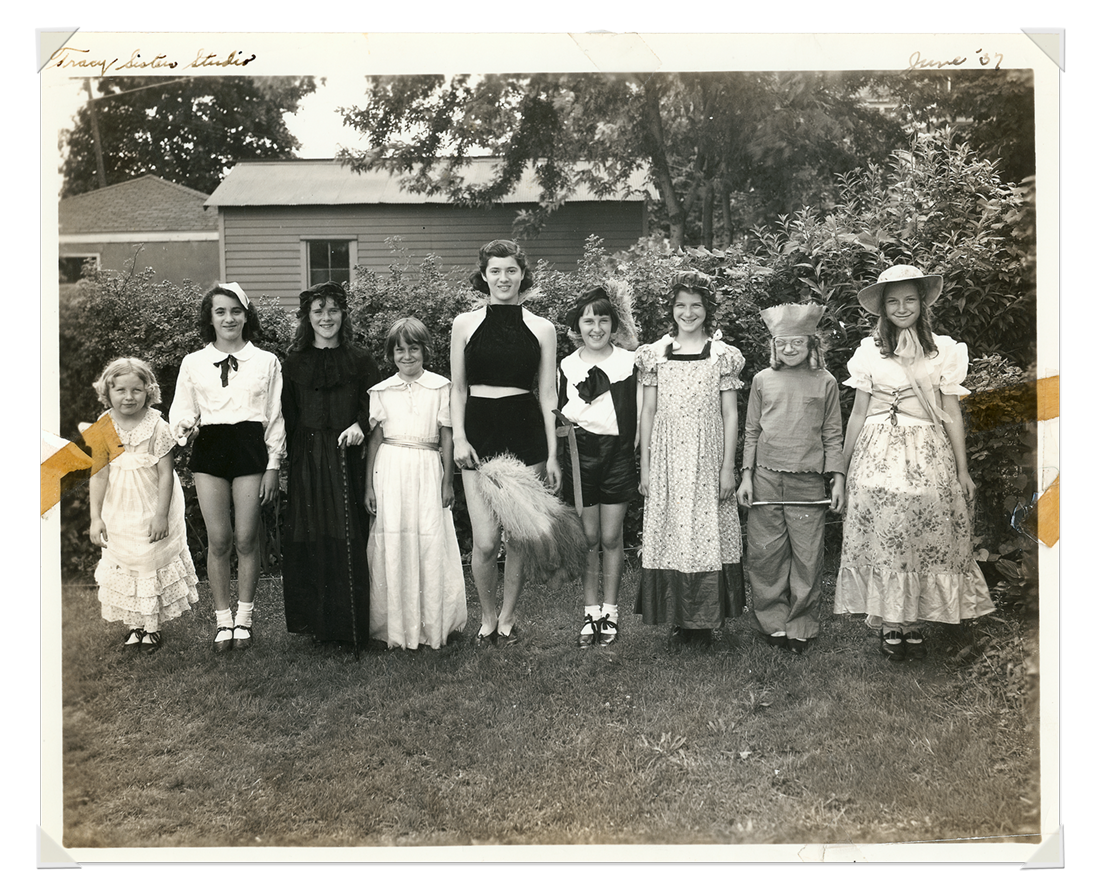
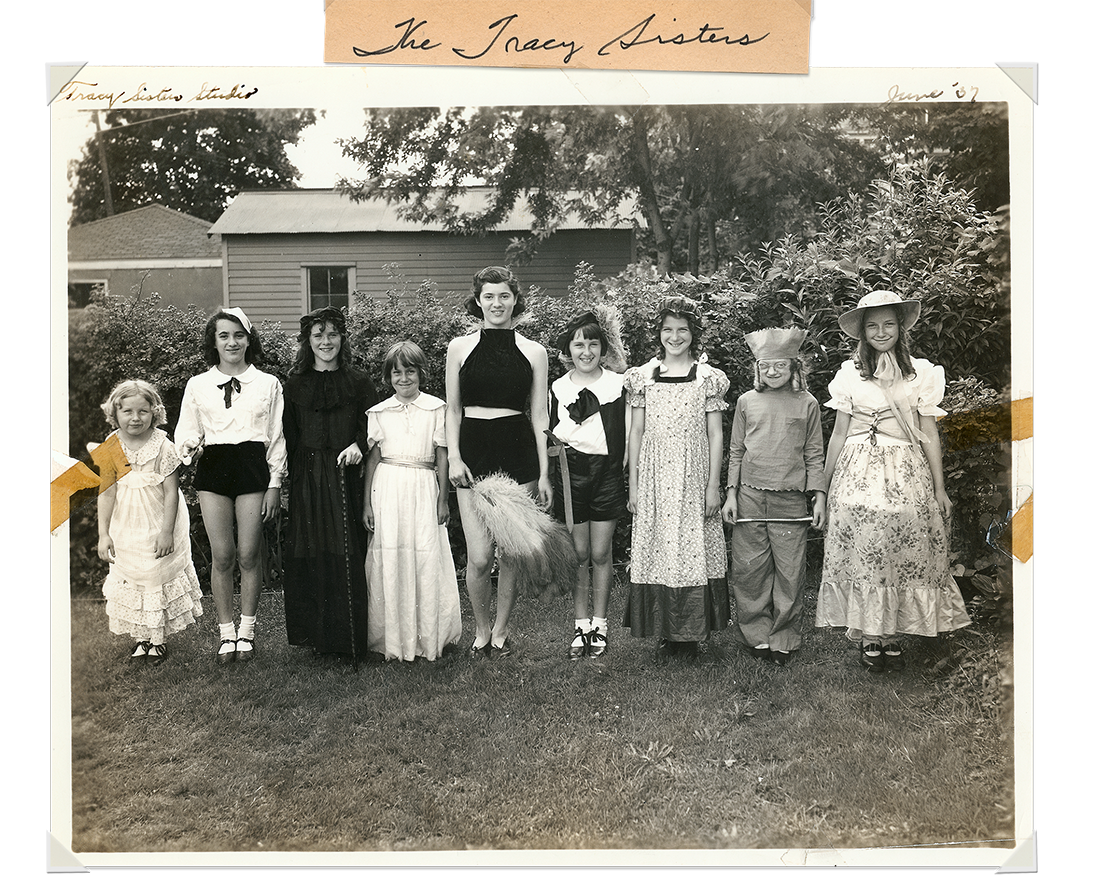
Web-ready images

diff --git a/src/constants/scrapbookContent.js b/src/constants/scrapbookContent.js
@@ -1,6 +1,6 @@
 const img = {
   'adler': 'scrapbook/adler.jpeg',
-  'amesSisters': 'scrapbook/ames-sisters.jpg',
+  'amesSisters': 'scrapbook/web-ready/Scrapbook_1939-AmesSisters_1200@150.png',
   'amesSistersChicago': 'scrapbook/web-ready/Scrapbook_1939-AmesSisters-Tour_1400@150.png',
   'amesSistersInCoats': 'scrapbook/web-ready/Scrapbook_1939-AmesSisters-OnTheRoad_1600@150.png',
   'amesSistersOnStairs': 'timeline/ames-sisters-stairs.png',
@@ -10,15 +10,13 @@ const img = {
   'articleGaeFoster': 'scrapbook/web-ready/Scrapbook_1942-GaeFosterArticle_1100@150.png',
   'babalu': 'scrapbook/babalu-3.png',
   'beachheadBelle': 'scrapbook/beachhead-belle.jpg',
-  'bicycles': 'scrapbook/bicycles.jpeg',
   'costumesAllPage': 'scrapbook/costumes-all.png',
   'costumesBells': 'scrapbook/costumes-bells.jpg',
-  'costumesBojangles': 'scrapbook/costumes-bojangles.png',
+  'costumesBojangles': 'scrapbook/web-ready/Scrapbook_1943-Bojangles_1500@150.png',
   'costumesBustle': 'scrapbook/costumes-bustle.png',
   'costumesIlonaMassey': 'scrapbook/costumes-ilona-massey.jpg',
-  'costumesJohnny': 'scrapbook/costumes-johnny.png',
-  'costumesMarine': 'scrapbook/costumes-marine.png',
-  'dcLineUp': 'scrapbook/earle-dances.png',
+  'costumesJohnny': 'scrapbook/web-ready/Scrapbook_1943-JohnnyMarchesHome_1250@150.png',
+  'costumesMarine': 'scrapbook/web-ready/Scrapbook_1943-MarineDrill_1250@150.png',
   'dorseyDog1': 'scrapbook/dorsey-dog-1.jpg',
   'dorseyDog2': 'scrapbook/dorsey-dog-2.jpg',
   'getWellSoon': 'scrapbook/getwellcard-2.jpeg',
@@ -30,9 +28,9 @@ const img = {
   'marvelettes': 'scrapbook/web-ready/Scrapbook_1940-Marvelettes-NewGroup_1100@150.png',
   'marvelettesAndCar': 'scrapbook/web-ready/Scrapbook_1940-Marvelettes-6+Dog_1500@150.png',
   'marvelettesContract': 'scrapbook/web-ready/Scrapbook_1941_HasseyContract_2000@150.png',
-  'marvelettesPage1': 'scrapbook/marvelette-page-1.jpg',
+  'marvelettesTumbling': 'scrapbook/web-ready/Scrapbook_1940_Marvelettes-TumbleSpeed_1250@150+.png',
   'marvelettesMusclebound': 'scrapbook/web-ready/Scrapbook_1941-Musclebound_1550@150.png',
-  'marvelettesStopLookListen': 'scrapbook/Scrapbook_1940-StopLookListen_1300@150.png',
+  'marvelettesStopLookListen': 'scrapbook/web-ready/Scrapbook_1940-StopLookListen_1300@150.png',
   'marvelettesUpsideDown': 'scrapbook/web-ready/Scrapbook_1941-Marvelettes-UpsideDown_1200@150.png',
   'marvelettesWithTheBand': 'scrapbook/web-ready/Scrapbook_1940-WithTheBand_1200@150.png',
   'millerSisters': 'scrapbook/web-ready/Scrapbook_1930_MillerSisters_1250@150.png',
@@ -45,10 +43,9 @@ const img = {
   'retirement': 'timeline/bar-across-the-street.png',
   'rickshaw': 'scrapbook/rickshaw-number.jpg',
   'roxyDemolition': 'scrapbook/roxy-swan-song.jpg',
-  'roxyMemories1': 'scrapbook/roxyMemories1.jpg',
+  'roxyMemories': 'scrapbook/web-ready/Scrapbook_1942,43_RoxyNY_1225@150.png',
   'roxyette': 'scrapbook/ColorSpread.jpg',
   'roxyetteCloseUp': 'scrapbook/ColorSpread003.jpg',
-  'shorePatrol': 'scrapbook/presBall.jpg',
   'shoeCapt': 'scrapbook/shoeCapt.jpeg',
   'showGirlContract': 'scrapbook/showgirl2.png',
   'southAmericaLetter': 'scrapbook/web-ready/Scrapbook_1941_SoAmericaTripLetter_1300@150.png',
@@ -56,6 +53,9 @@ const img = {
   'thruTheseDoors': 'scrapbook/earleTheater.jpg',
   'tracySisters': 'scrapbook/web-ready/Scrapbook_1935-TracySistersRecital_1100@150.png',
   'tracySistersProgram': 'scrapbook/tracy-sisters-program.jpg',
+  'washingtonBicycles': 'scrapbook/web-ready/Scrapbook_1942-WashingtonBikeDance_1200@150.png',
+  'washingtonLineUp': 'scrapbook/web-ready/Scrapbook_1942-WashingtonRoutines_1250@150.png',
+  'washingtonShorePatrol': 'scrapbook/web-ready/Scrapbook_1942-PresBdayBall_1200@150.png',
   'weddingCard': 'timeline/wedding-card.jpg',
   'weddingParty': 'scrapbook/wedding-party.jpeg',
 }
@@ -294,7 +294,7 @@ export const scrapbookContent = [
     "caption": "Marie is bottom left of the pyramid and doing a split in the photo to the right.",
     "chapter": "marvelettes",
     "date": "1940",
-    "imgSrc": img.marvelettesPage1,
+    "imgSrc": img.marvelettesTumbling,
     "title": "Tumbling with Speed",
     "transcription":
       "Somebody auditioned for the Paramount... it was the Marvelettes, and we couldn't work the stage it was so small. In New York, where Sinatra was, same time. Couldn't work the stage because we were doing acrobatic work and we would've gone right off. (You would've done it with Sinatra?) Yup."
@@ -339,7 +339,7 @@ export const scrapbookContent = [
     "audioSrc": audio.earleTheatreDances,
     "chapter": "training",
     "date": "1942",
-    "imgSrc": img.dcLineUp,
+    "imgSrc": img.washingtonLineUp,
     "title": "Washington Routine",
     "transcription": "Here's all the routines we did. I had to learn all this down there. Shore Patrol, bicycle, stilts– I had to learn how to walk, dance in stilts–, soft shoe, and fencing. We rehearsed while the movie was on. And then I rehearsed all– every day, every day, every day.",
   },
@@ -348,7 +348,7 @@ export const scrapbookContent = [
     "caption": "Marie is second from the left",
     "chapter": "training",
     "date": "1942",
-    "imgSrc": img.bicycles,
+    "imgSrc": img.washingtonBicycles,
     "title": "Dancing on bikes",
     "transcription": "I knew how to ride a bicycle. But we did all the formations on a bicycle holding one hand. You had to break it so I'd go forward and she'd go back. There were no breaks on the bikes. It was all controlled with your feet.",
   },
@@ -356,7 +356,7 @@ export const scrapbookContent = [
     "audioSrc": audio.shorePatrol,
     "chapter": "training",
     "date": "1942",
-    "imgSrc": img.shorePatrol,
+    "imgSrc": img.washingtonShorePatrol,
     "title": "The President's Ball",
     "transcription": "And the Shore Patrol, that was a tough one too. The President's ball, look at that. Well, we were down in Washington. (You performed for FDR?) Well it was in '42. (Yeah, that was FDR)",
   },
@@ -364,7 +364,7 @@ export const scrapbookContent = [
     "audioSrc": audio.calledToNewYork,
     "chapter": "roxyette",
     "date": "1942",
-    "imgSrc": img.roxyMemories1,
+    "imgSrc": img.roxyMemories,
     "title": "Called to New York",
     "transcription": "Now we're up in New York. Now I'm called to New York. I'll tell you why I'm called to New York– they closed the Earle Theatre. And they brought all the Roxyettes home. So some of us made it back here and some didn't.",
     // [52] multiple costumes, had to learn new dances for each movie
